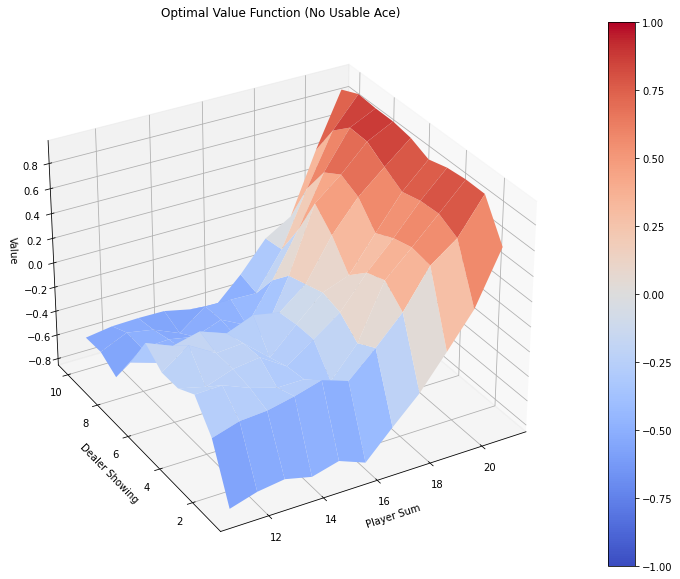
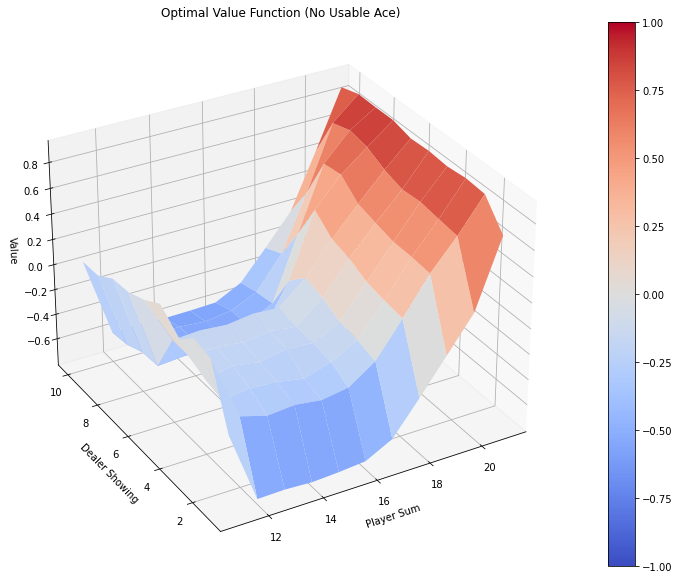
reward collection implemented

diff --git a/monte_carlo/agent.py b/monte_carlo/agent.py
@@ -19,11 +19,14 @@ class MonteCarloBlackjackAgent:
     def policy(self):
         return self.__value_table
     
-    def evaluate(self, state):
-        return self.__value_table[state]
+    def evaluate(self, state, epsilon):
+        probs = numpy.ones(2) * epsilon / 2
+        best_action = numpy.argmax(self.__value_table[state])
+        probs[best_action] = 1 - epsilon + (epsilon / 2)
+        return probs
     
     
-    def __generate_episode(self, policy):
+    def __generate_episode(self, epsilon):
         '''
         Generates random episodes based on the current policy
         '''
@@ -32,17 +35,16 @@ class MonteCarloBlackjackAgent:
         state = self.__env.reset()
         while (not done):
             state_prime = state
-            # prob = self.evaluate(state)
-            probs = policy(state)
+            probs = self.evaluate(state, epsilon)
             action = numpy.random.choice([0, 1], p=probs)
             state, reward, done, _ = self.__env.step(action)
             episode.append((state_prime, action, reward))
-        return episode
+        return episode, state, reward
         
 
-    def learn (self, policy, gamma = 1):
+    def learn (self, gamma = 1, epsilon = 0.1):
         while (True):
-            episode = self.__generate_episode(policy)
+            episode, f_state, f_reward = self.__generate_episode(epsilon)
             G = 0
             for i, step in enumerate(episode[::-1]):
                 state, action, reward = step
@@ -53,12 +55,4 @@ class MonteCarloBlackjackAgent:
                     self.__reward_sum[pair] += G
                     self.__value_table[state][action] = \
                         self.__reward_sum[pair] / self.__visits[pair]
-            yield
-
-def generate_epsilon_greedy_policy(policy, epsilon):
-    def policy_greedy(state):
-        prob = numpy.ones(2, dtype=float) * epsilon / 2
-        best_action = numpy.argmax(policy[state])
-        prob[best_action] += 1. - epsilon
-        return prob
-    return policy_greedy
+            yield f_reward

diff --git a/monte_carlo/main.py b/monte_carlo/main.py
@@ -3,11 +3,12 @@ import numpy
 import matplotlib
 import matplotlib.pyplot as plt
 from collections import defaultdict
-from agent import MonteCarloBlackjackAgent, generate_epsilon_greedy_policy
+from agent import MonteCarloBlackjackAgent
 
 def plot_value_function(V, title = "Value Function"):
     '''
     Plots the value function as a surface plot.
+    https://ernie55ernie.github.io/machine%20learning/2018/04/08/reinforcement-learning-simple-experiment-blackjack.html
     '''
     min_x = 11 # min(k[0] for k in V.keys())
     max_x = max(k[0] for k in V.keys())
@@ -41,15 +42,20 @@ def plot_value_function(V, title = "Value Function"):
 if __name__ == '__main__':
     agent = MonteCarloBlackjackAgent()
     
-    random_policy = defaultdict(lambda: numpy.zeros(2))
-    p = generate_epsilon_greedy_policy(random_policy, epsilon = 0.1)
-    test = agent.learn(p)
+    test = agent.learn()
     
-    for _ in range(500000):
-        next(test)
-        if (_+1 in [50000, 100000, 500000]):    
-            V = defaultdict(float)
-            for state, actions in agent.policy.items():
-                V[state] = numpy.max(actions)
+    threesholds = [5000 * x for x in range(1,11)] + [100000, 500000, 1000000]
+    avgs = {}
+    
+    r = 0
+    for n in range(1, 500001):
+        r += next(test)
+        if n in threesholds:
+            avgs[n] = r/n
+        
 
-            plot_value_function(V, title = 'Optimal Value Function')
+#    V = defaultdict(float)
+#    for state, actions in agent.policy.items():
+#        V[state] = numpy.max(actions)
+#
+#    plot_value_function(V, title = 'Optimal Value Function')
